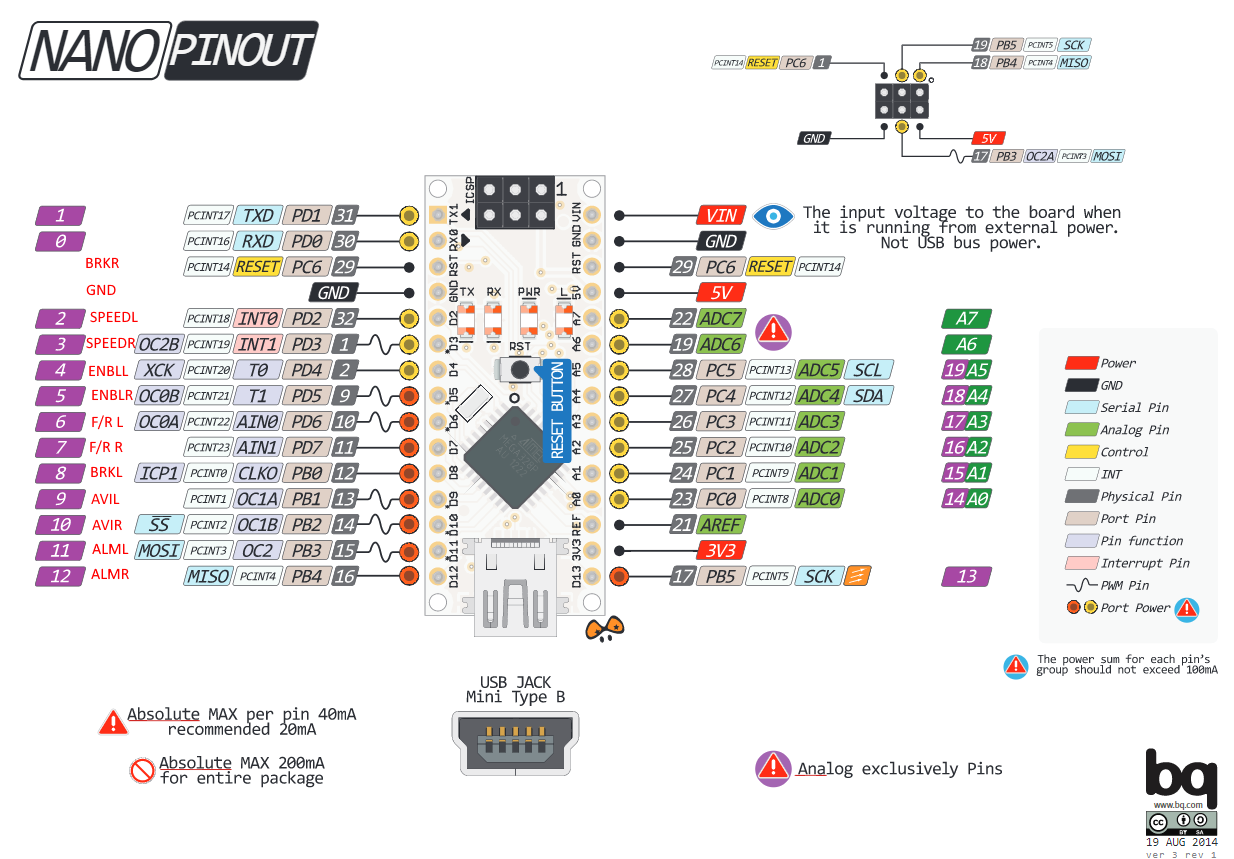
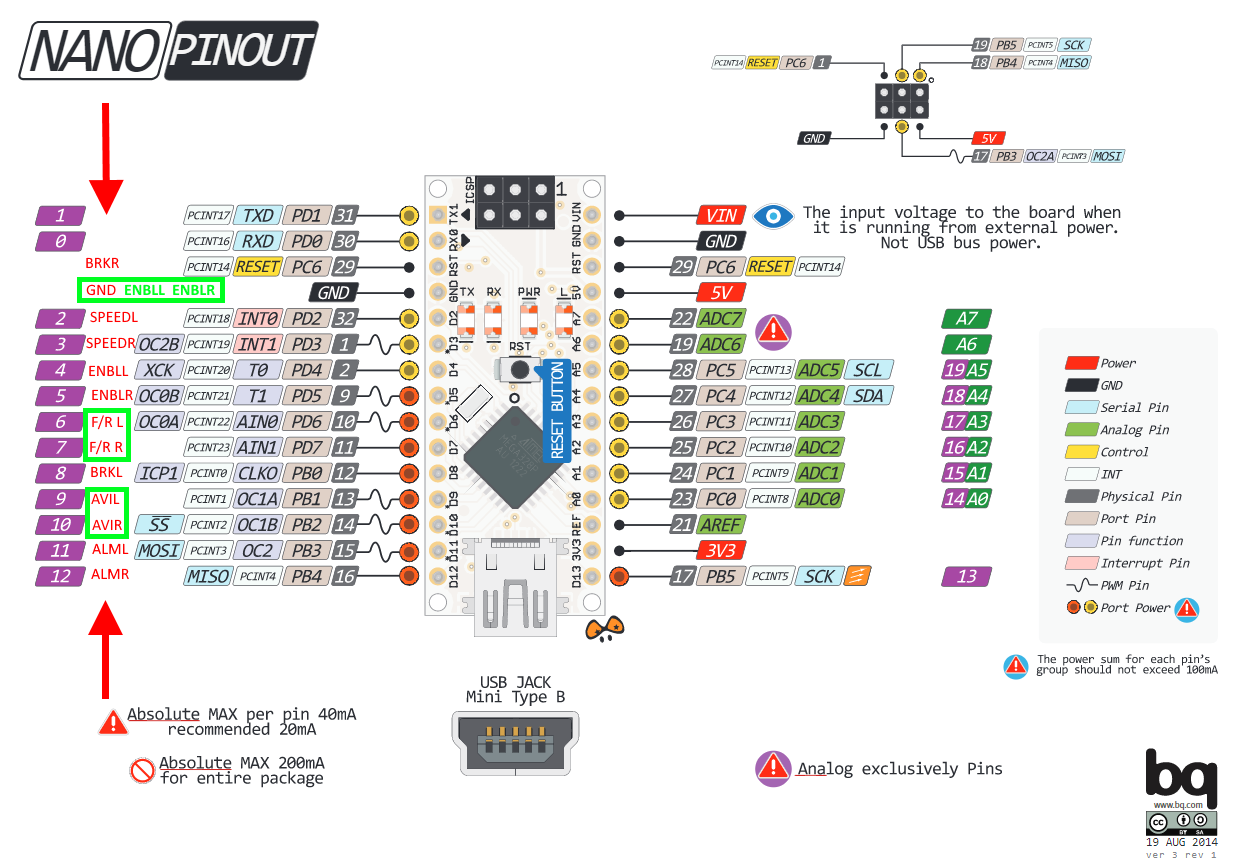
Documentation demo controller update

diff --git a/README.md b/README.md
@@ -3,17 +3,55 @@ robot_p
 
 ROS software stack for a custom robot
 
-
-controller
+URDF
 ----------
-communicates via serial
+
+TODO
+
+ROS control
+----------
+
+TODO
+
+Controller
+----------
+
+
+### demo_controller (in use)
+
+This controller is writen in Arduino and is currently in use.  Controller periodically reads messages from ROS containing pwm power in range [-255;255]. Appropriate pwm and forward / rear signal is then generated to motor drivers. Sources are located in demo_controller folder.
+
+### robot_p_controller (future use)
+
+This controller is written directly in AVR and supports all features of motor drivers. Nevertheless motor drivers generate SPEED signals in too high frequency thus controller is not able to read all of them. This implementation is thus meant for future development - hardware solution to decrease frequency of SPEED signal is needed. Sources are located in robot_p_controller folder.
+
+### Documentation
+
+Following sections are meant essentially for robot_p controller. If content is relevant also for demo controller it is directly specified.
+
+
+#### Pinout
+
+Labels in red describe pin connected with drivers.
+
+Labels in green font or box describe demo controller pins connected with drivers. (relevant for demo controller)
+
+![pinout](./robot_p_controller/robot_p_controller/pinout.png "Pinout")
+
+
+
+#### Serial configuration
+
+Valid also for demo controller.
+
+ROS communicates with controller via serial with following configuration.
 - 57600 BAUD
 - 8 data bits
 - none parity
 - 1 stop bit
 - none handshaking
 
-### INPUT ROS (OUTPUT controller)
+#### INPUT ROS (OUTPUT controller)
 
 6 byte message
 
@@ -30,7 +68,7 @@ ALM_R <CRC-8>
 ```
 left (right) driver sent ALM signal, controller is now in stopped state
 
-### OUTPUT ROS (INPUT controller)
+#### OUTPUT ROS (INPUT controller)
 
 6 byte message
 
@@ -45,8 +83,11 @@ V <16 bit signed> <16 bit signed> <CRC-8>
 
    left wheel       right wheel
 
-   values are in the range [-255,255]
 ```
+   demo controller: values are in the range [-255,255] (valid also for demo controller)
+
+   robot_p controller: values are speed in ticks per iteration (because of PID controller)
+
 
 
 ```
@@ -54,13 +95,25 @@ ETOP\0 <CRC-8>
 ```
 all timers stop and ENBL is set to 1 
 
+
 ```
 START <CRC-8>
 ```
 all timers start and ENBL is set to 0 
 
-### Documentation
-Since base unit for atmel328P is 1 byte processor can not deal for example with int atomically. Thus there can be race condition between main "thread" and interrupts. By default interupts can not be interrupted by another one. Interrupts are waiting until they are processed. 
+this message has to be sent before any other
+
+#### Atmega328P notes
+
+- Since base unit for atmel328P is 1 byte processor can not deal for example with int atomically. Thus there can be race condition between main loop and interrupts. By default interupts can not be interrupted by another one. Interrupts are waiting until they are processed. 
+
+- full data sheet -> http://ww1.microchip.com/downloads/en/DeviceDoc/Atmel-42735-8-bit-AVR-Microcontroller-ATmega328-328P_Datasheet.pdf
+
+- summary -> http://ww1.microchip.com/downloads/en/DeviceDoc/Atmel-42735-8-bit-AVR-Microcontroller-ATmega328-328P_Summary.pdf
+
+- arduino nano pinout -> http://www.pighixxx.com/test/pinouts/boards/nano.pdf
+
+- flashing .hex file -> https://forum.arduino.cc/index.php?topic=410618.0
 
 
 #### Timers
@@ -86,12 +139,6 @@ To let this work there has to be created external pull ups by connecting desired
 Value change interrupt can be set to almost all pins. Nevertheless this method is less user friendly, because you have to manually determine whether some pins are changed or not. This method is used for pins PB3/4 to detect ALM signal.
 
 
-#### Pinout
-
-Labels in red describe pin connected with drivers.
-
-![pinout](./robot_p_controller/robot_p_controller/pinout.png "Pinout")
-
 #### PID
 
 *   P,I,D variables are multipled by 32 thus in PID algorithm divided by 32=2^5 (shift can be used instead)
@@ -105,6 +152,8 @@ speed_t pid_p = 50; //effectively 1.56
 speed_t pid_i = 23; //effectively 0.71
 speed_t pid_d = 4; //effectively 0.125
 ```
+##### PID tests
+
 PID behaivour with top speed:
 
 ![pinout](./robot_p_controller/pid_test/p23L.png "left wheel")
